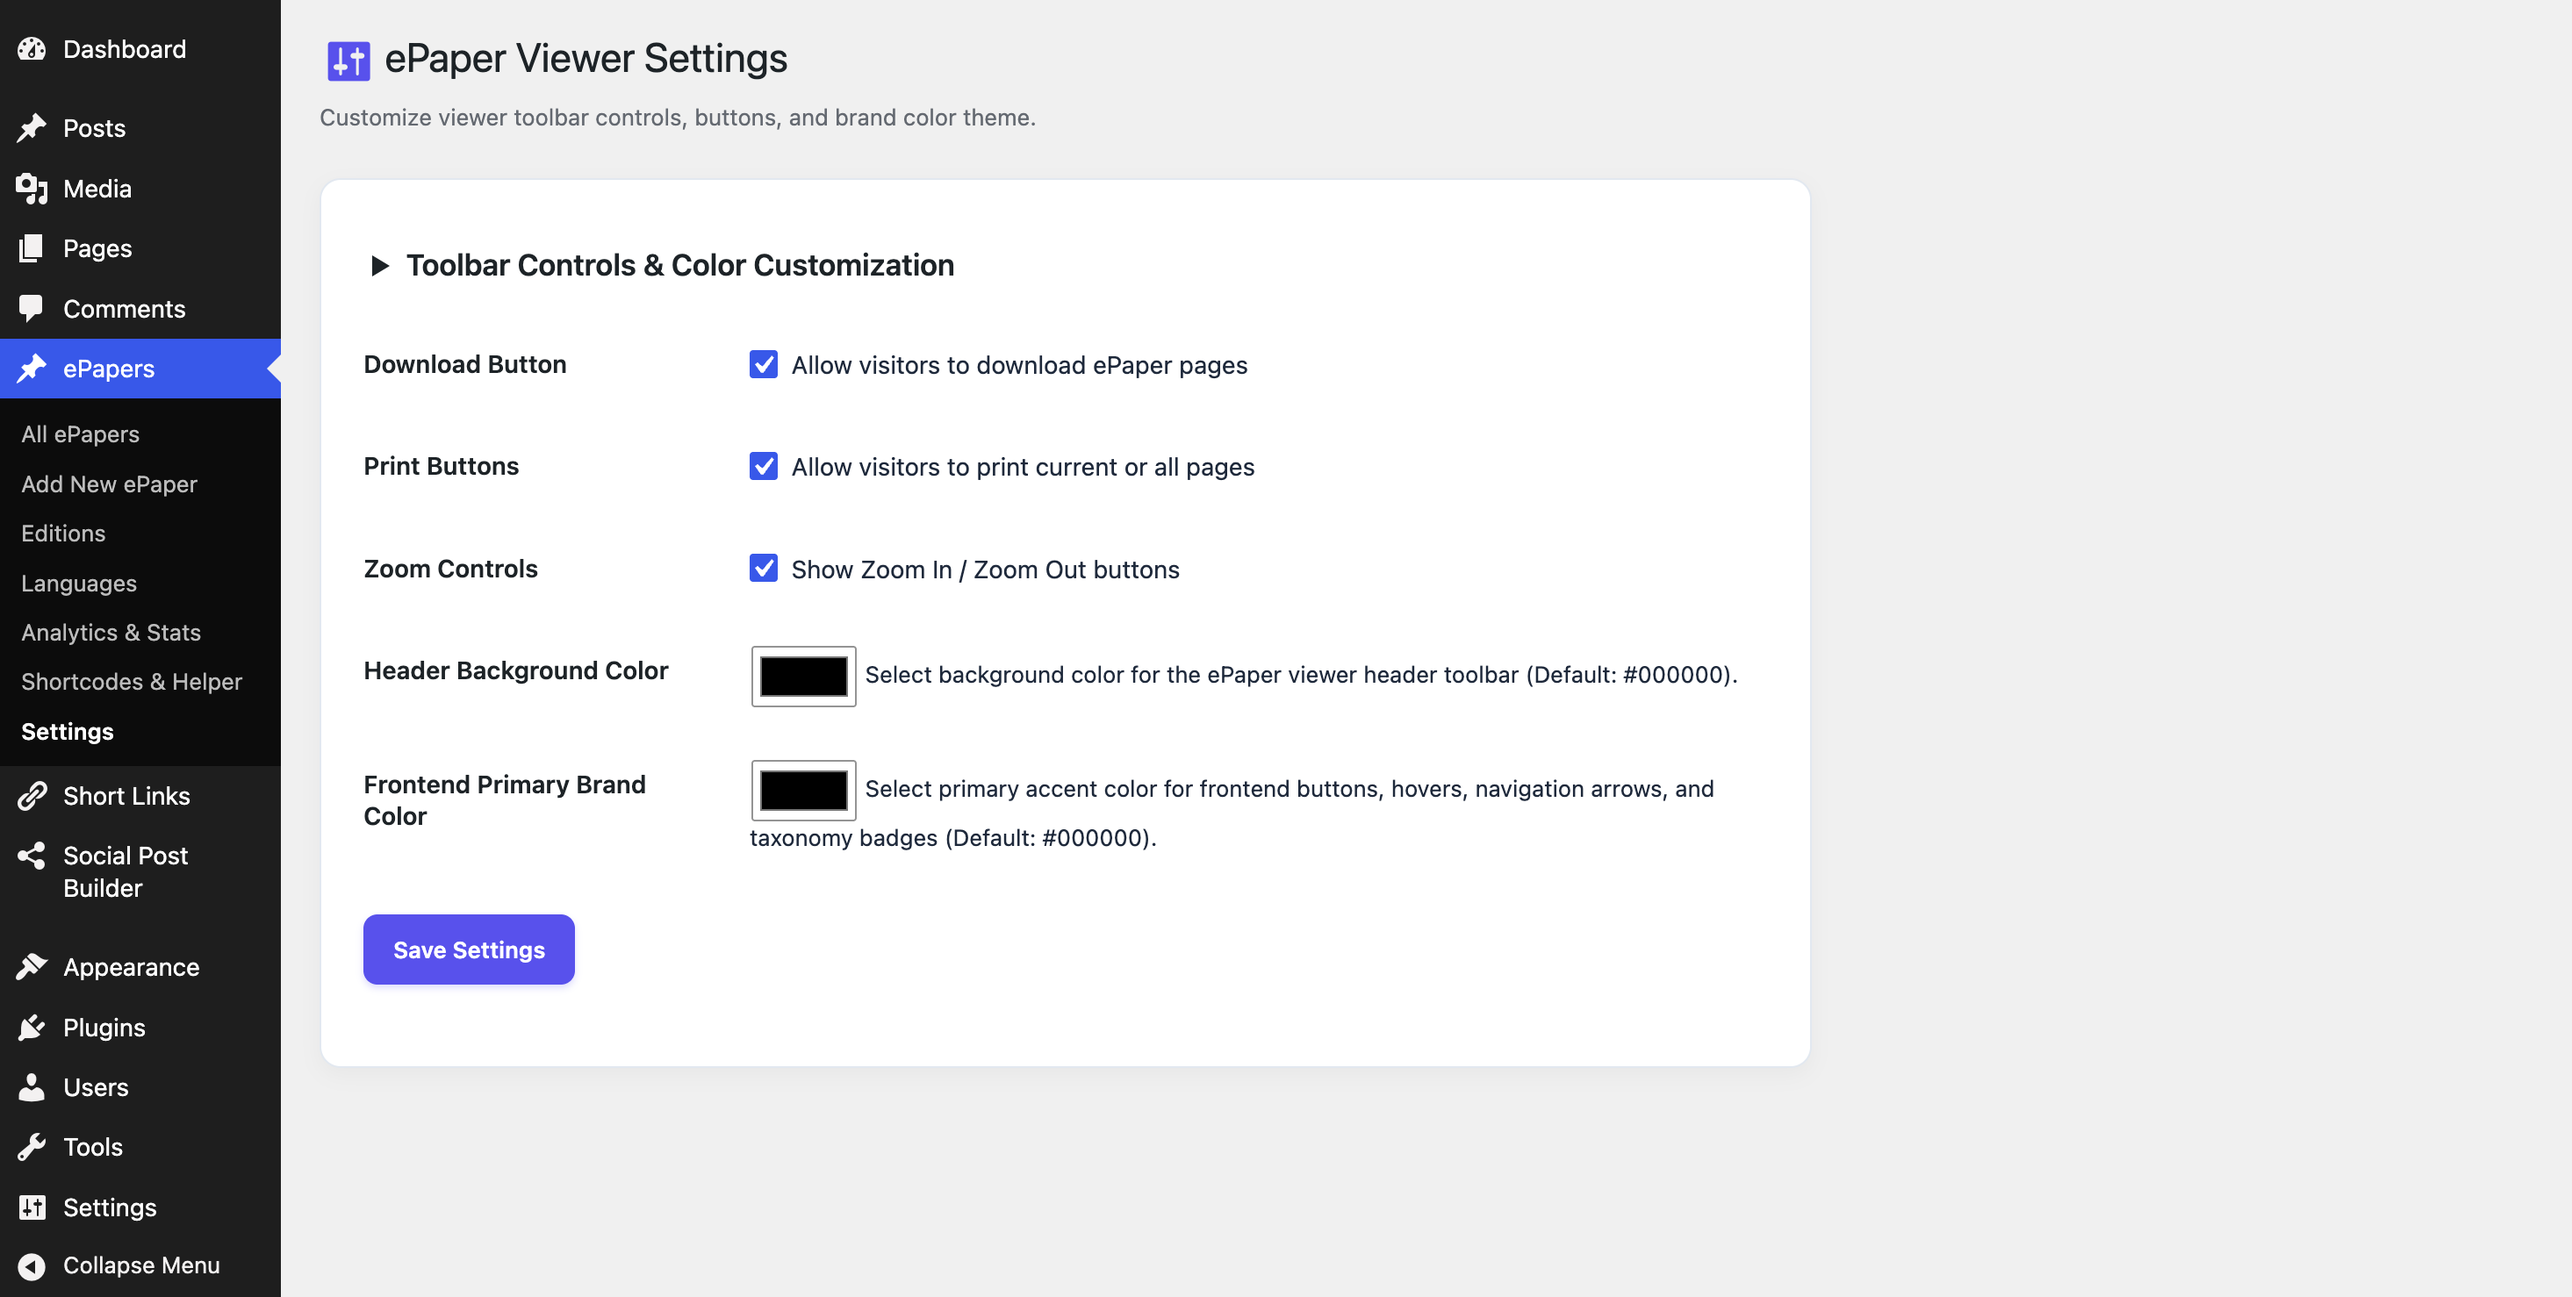
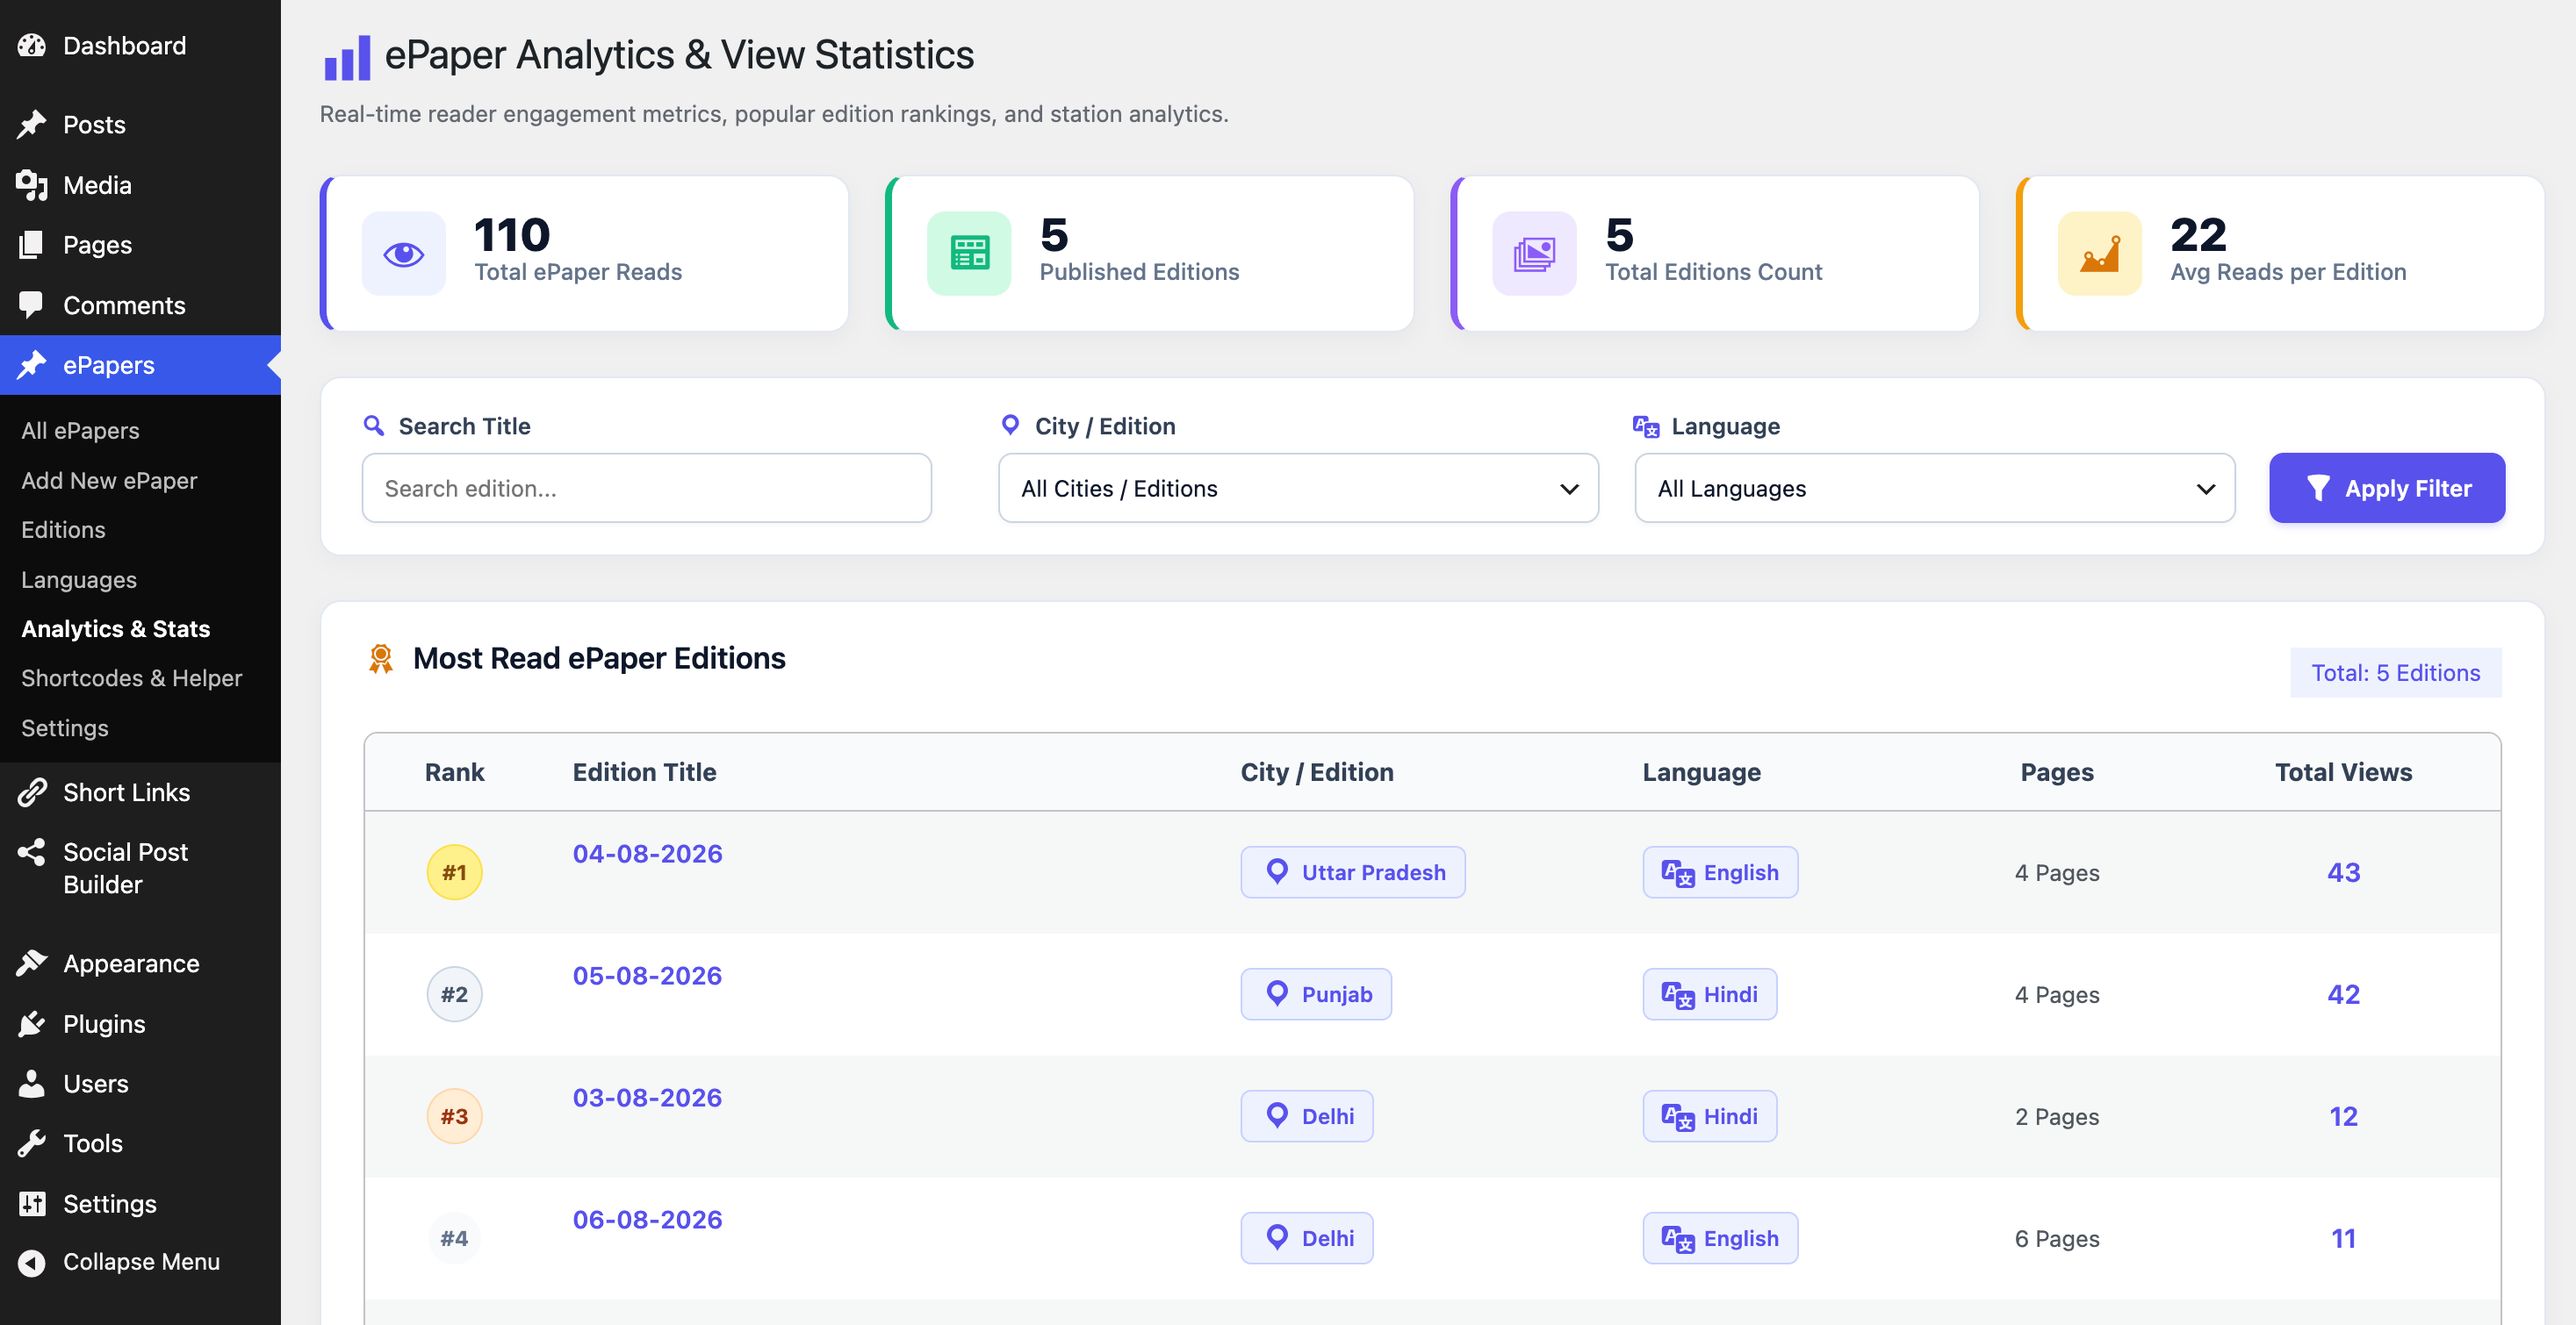
Include all 8 frontend and admin screenshots in README.md and readme.txt

diff --git a/README.md b/README.md
@@ -27,19 +27,27 @@ Designed with modern aesthetics, fast AJAX reader engagement analytics, multi-ci
 
 ---
 
-## 📸 Admin Screenshots & Dashboard
+## 📸 Screenshots Showcase (Frontend & Admin)
 
-| 1. Add New ePaper (Drag-and-Drop Page Order) | 2. City & Regional Editions Taxonomy |
+### 🖥 Frontend Views
+| 1. Single ePaper Reader (Zoom, Print, Download) | 2. ePapers Archive Grid View |
+| :---: | :---: |
+| ![Single ePaper Reader](assets/screenshots/screenshot-4.png) | ![ePapers Archive Grid](assets/screenshots/screenshot-5.png) |
+
+---
+
+### ⚙ Admin Dashboard Views
+| 3. Add New ePaper (Drag-and-Drop Order) | 4. City & Regional Editions Taxonomy |
 | :---: | :---: |
 | ![Add New ePaper](assets/screenshots/screenshot-1.png) | ![City Editions](assets/screenshots/screenshot-2.png) |
 
-| 3. Languages Taxonomy | 4. AJAX Analytics & View Statistics |
+| 5. Languages Taxonomy | 6. AJAX Analytics & View Statistics |
 | :---: | :---: |
-| ![Languages](assets/screenshots/screenshot-3.png) | ![AJAX Analytics](assets/screenshots/screenshot-4.png) |
+| ![Languages](assets/screenshots/screenshot-3.png) | ![AJAX Analytics](assets/screenshots/screenshot-6.png) |
 
-| 5. Shortcodes & Embed Documentation | 6. Viewer Settings & Color Customization |
+| 7. Shortcodes & Embed Documentation | 8. Viewer Settings & Color Customization |
 | :---: | :---: |
-| ![Shortcodes Documentation](assets/screenshots/screenshot-5.png) | ![Viewer Settings](assets/screenshots/screenshot-6.png) |
+| ![Shortcodes Documentation](assets/screenshots/screenshot-7.png) | ![Viewer Settings](assets/screenshots/screenshot-8.png) |
 
 ---
 
